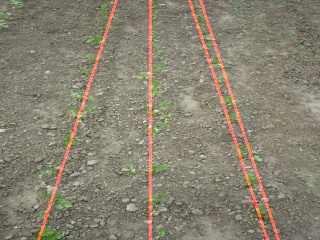
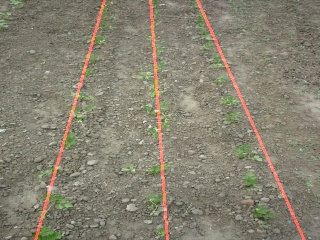
Added code to remove similar lines
Also reduced number of lines to find to 3 as it gives better results.

Changed region(s): [[0.5625, 0.0, 0.9688, 1.0], [0.4375, 0.0292, 0.5312, 1.0], [0.0938, 0.0, 0.375, 1.0]]

diff --git a/src/line_detect_2.py b/src/line_detect_2.py
@@ -14,13 +14,16 @@ gt_data_path = os.path.abspath('../CRBD/GT data')
 image_out_path = os.path.abspath('../img/algorithm_2')
 
 
-HOUGH_RHO = 1                     # Distance resolution of the accumulator in pixels
-HOUGH_ANGLE = math.pi*6.0/180     # Angle resolution of the accumulator in radians
-HOUGH_THRESH_MAX = 60             # Accumulator threshold parameter. Only those lines are returned that get enough votes
+HOUGH_RHO = 2                      # Distance resolution of the accumulator in pixels
+HOUGH_ANGLE = math.pi*4.0/180     # Angle resolution of the accumulator in radians
+HOUGH_THRESH_MAX = 100             # Accumulator threshold parameter. Only those lines are returned that get enough votes
 HOUGH_THRESH_MIN = 10
+HOUGH_THRESH_INCR = 1
 
-NUMBER_OF_ROWS = 4
+NUMBER_OF_ROWS = 3
 
+THETA_SIM_THRESH = math.pi*(6.0/180)   # How similar two rows can be
+RHO_SIM_THRESH = 8   # How similar two rows can be
 ANGLE_THRESH = math.pi*(30.0/180) # How steep angles the crop rows can be in radians
 
 
@@ -104,6 +107,9 @@ def crop_row_detect(image_in):
     skeleton = skeletonize(image_edit)
     save_image('2_image_skeleton.jpg', skeleton)
     
+    if timing == False:
+        cv2.imshow("skeleton", skeleton)
+    
     ### Hough Transform ###
     crop_lines = crop_point_hough(skeleton)
     save_image('3_image_hough.jpg', cv2.addWeighted(image_in, 1, crop_lines, 1, 0.0))
@@ -139,9 +145,6 @@ def skeletonize(image_in):
         if zeros == size:
             done = True
     
-    #if timing == False:
-    #    cv2.imshow("skel", skel)
-    
     return skel
 
 
@@ -161,34 +164,47 @@ def crop_point_hough(crop_points):
         if crop_line_data != None:
             
             # get rid of duplicate lines. May become redundant if a similarity threshold is done
-            crop_line_data = set(tuple_list_round(crop_line_data[0], -1, 4))
+            crop_line_data_1 = tuple_list_round(crop_line_data[0], -1, 4)
+            crop_line_data_2 = []
             
-            faulty_lines = 0
-            
-            for (rho, theta) in crop_line_data:
+            for curr_index in range(len(crop_line_data_1)):
+                (rho, theta) = crop_line_data_1[curr_index]
                 
-                if (theta <= ANGLE_THRESH) or (theta >= math.pi-ANGLE_THRESH):
+                is_faulty = False
+                if ((theta >= ANGLE_THRESH) and (theta <= math.pi-ANGLE_THRESH)) or (theta <= 0.0001):
+                    is_faulty = True
                     
-                    a = math.cos(theta)
-                    b = math.sin(theta)
-                    x0 = a*rho
-                    y0 = b*rho
-                    point1 = (int(round(x0+1000*(-b))), int(round(y0+1000*(a))))
-                    point2 = (int(round(x0-1000*(-b))), int(round(y0-1000*(a))))
-                    cv2.line(crop_lines, point1, point2, (0, 0, 255), 2)
                 else:
-                    faulty_lines += 1
-                #print(rho)
+                    for (other_rho, other_theta) in crop_line_data_1[curr_index+1:]:
+                        if abs(theta - other_theta) < THETA_SIM_THRESH:
+                            is_faulty = True
+                        elif abs(rho - other_rho) < RHO_SIM_THRESH:
+                            is_faulty = True
+                
+                if not is_faulty:
+                    crop_line_data_2.append( (rho, theta) )
+                    
+                
             
-            if (len(crop_line_data) - faulty_lines) >= NUMBER_OF_ROWS:
-                #print("found {0} lines".format(len(crop_line_data) - faulty_lines))
+            for (rho, theta) in crop_line_data_2:
+                
+                a = math.cos(theta)
+                b = math.sin(theta)
+                x0 = a*rho
+                y0 = b*rho
+                point1 = (int(round(x0+1000*(-b))), int(round(y0+1000*(a))))
+                point2 = (int(round(x0-1000*(-b))), int(round(y0-1000*(a))))
+                cv2.line(crop_lines, point1, point2, (0, 0, 255), 2)
+
+            
+            if len(crop_line_data_2) >= NUMBER_OF_ROWS:
                 rows_found = True
             
         
-        hough_thresh -= 1
+        hough_thresh -= HOUGH_THRESH_INCR
     
     if rows_found == False:
-        print(number_of_rows, "rows_not_found")
+        print(NUMBER_OF_ROWS, "rows_not_found")
         
     
     return crop_lines
